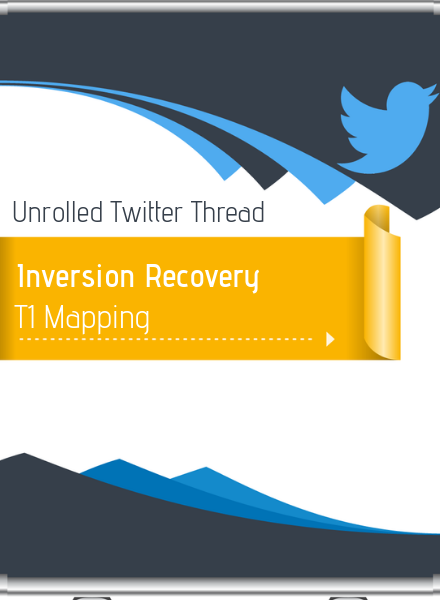
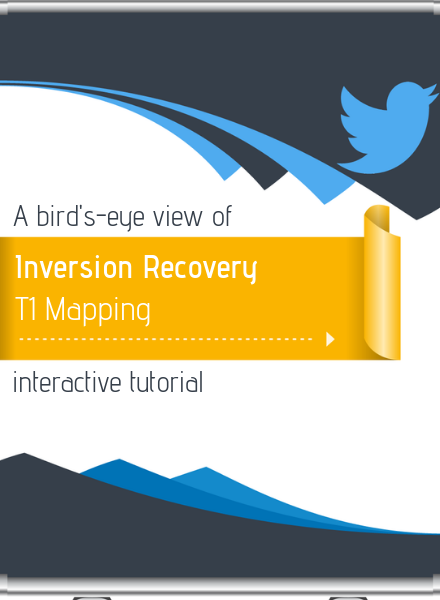
Updated the title of the twitter thread

Changed region(s): [[0.0295, 0.42, 0.5909, 0.57], [0.0295, 0.33, 0.6205, 0.39], [0.0295, 0.6, 0.4727, 0.66]]

diff --git a/_posts/2018-11-01-Mathieu-thread.md b/_posts/2018-11-01-Mathieu-thread.md
@@ -1,6 +1,6 @@
 ---
 layout: post
-title:  "Unrolled twitter thread: Inversion Recovery T1 mapping"
+title:  "A bird's-eye view of Inversion Recovery T1 mapping interactive tutorial"
 author: Tommy
 categories: [ jekyll ]
 image: assets/images/twitter_thread.png
